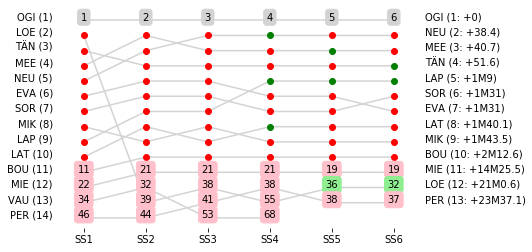
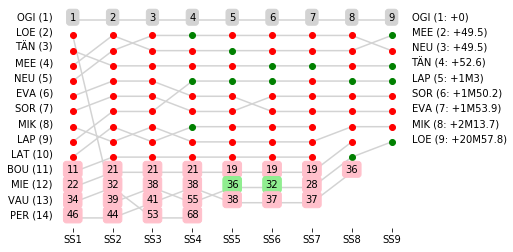
Section 5 report

diff --git a/Section 5_report.md b/Section 5_report.md
@@ -13,3 +13,8 @@ The full scheduled itinerary for the section was as follows:
 	- 17:41:00 TC9A Regroup IN - Lile Rousse (32.71km) [00:39:00]
 
 ### Section 5 Report
+Section 5
+
+![](images/spchart_stage_Section 5.png)Section 5
+
+![](images/spchart_overall_Section 5.png)

diff --git a/SS7_report.md b/SS7_report.md
@@ -1,0 +1,3 @@
+# Stage Progress Chart - France, 2018 - OGI - SS7
+
+![](images/stage_report_7_OGI.png)

diff --git a/SS8_report.md b/SS8_report.md
@@ -1,0 +1,3 @@
+# Stage Progress Chart - France, 2018 - OGI - SS8
+
+![](images/stage_report_8_OGI.png)

diff --git a/SS9_report.md b/SS9_report.md
@@ -1,0 +1,3 @@
+# Stage Progress Chart - France, 2018 - OGI - SS9
+
+![](images/stage_report_9_OGI.png)
